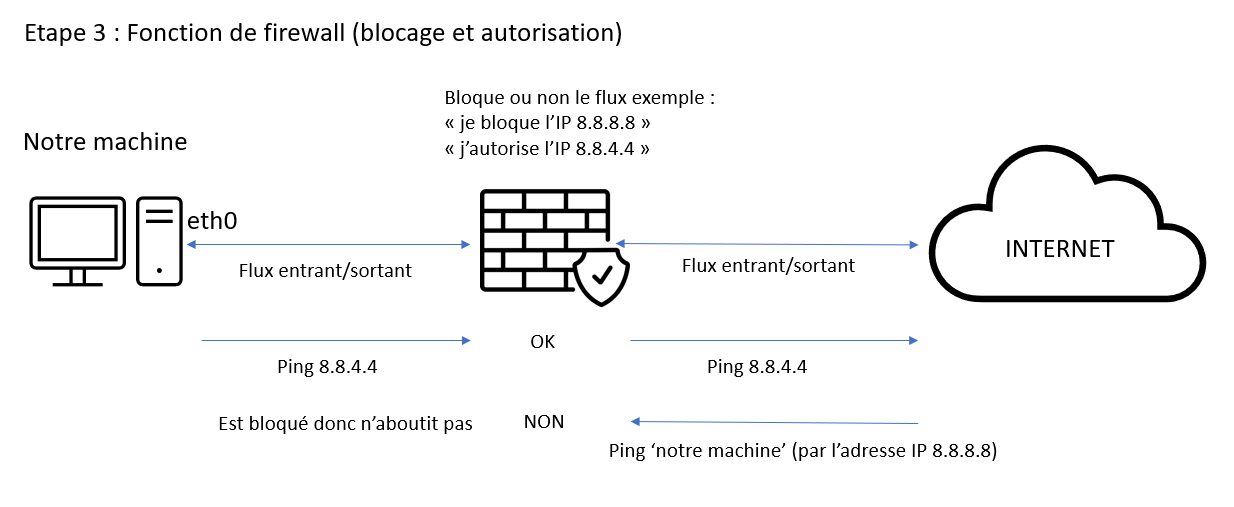
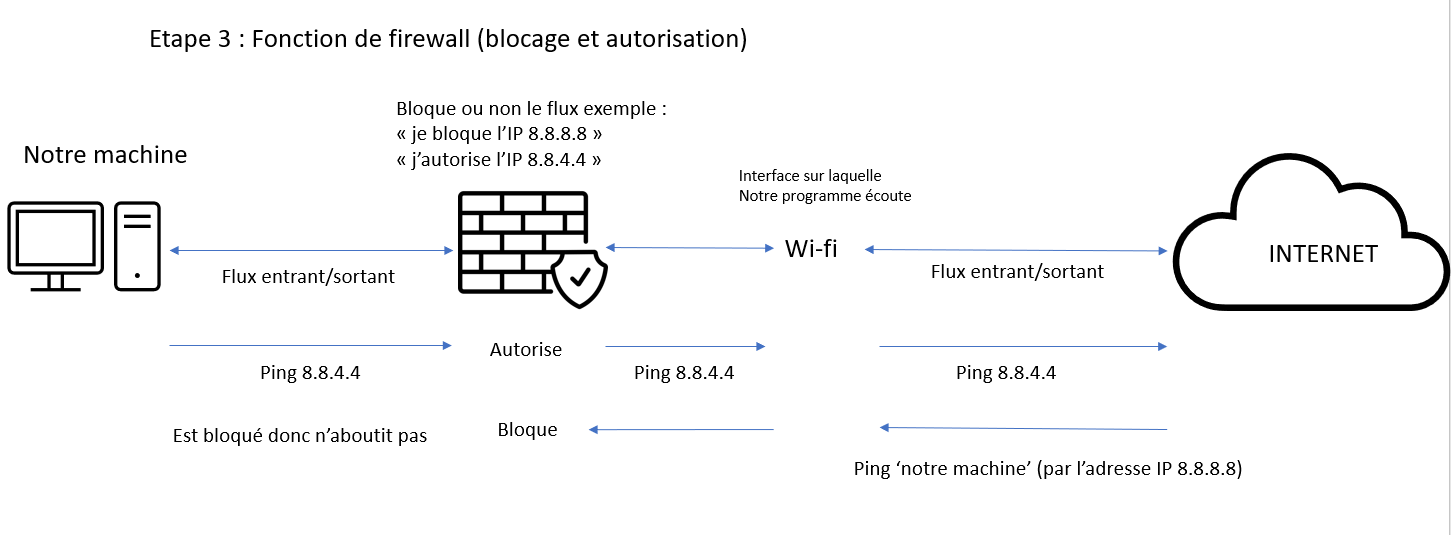
readme et modif explications

diff --git a/README.md b/README.md
@@ -1,1 +1,25 @@
-# pysec
+Le programme a été fait sur un environnement windows
+Il faut être en ADMINSTRATEUR pour pouvoir faire marcher le programme et que toutes les fonctionnalités marchent
+Plusieurs librairies sont nécessaire au bon fonctionnement du programme.
+
+"python3 main.py" pour lancer le programme, il prend un peu de temps à se lancer
+
+Les points décrit ci dessous sont les différentes fonctionnalités de notre programme :
+
+1) Une fois que l'interface graphique est lancé on clique sur "start sniffer" et on entre le nom de l'interface sur laquelle on veut voir les paquets (on la trouve via la commande IPconfig sur windows dans le cas d'un PC utilisateur une seule interface sera utilisé, Wi-Fi par exemple), on clique sur OK pour commencer l'écoute sur l'interface
+
+2) Pour voir les paquets on clique sur "show packets counts", chaque ligne correspond à des paquets entrant et sortant, des infos sont indiqués, l'ip source, l'ip destination, le type de paquet etc.
+
+3) Si il y a une attaque SYN FLOOD un pop up va apparaitre et ça va bloquer automatiquement l'ip
+
+4) "Blacklist" nous permet de voir toutes les IP qui sont bloquées
+
+5) "Block IP" et "Unblock IP" permettent de bloquer/débloquer une addresse IP
+
+6) "Show suspicious packets" et "Clear suspicious packets" permettent voir les packets suscpicieux (des paquets potentiellement dangereux), le clear permet d'effacer à l'écran les packets
+
+7) "analyse traffic" nous permet de voir dans un graphique les machines qui envoient/recoivent le plus de paquets avec notre machine
+
+En conclusion notre programme permet de : Bloquer/Débloquer une IP, bloquer automatiquement les machines qui font des attaques SYN Flood sur notre machine, analyser le traffic passant par l'interface sur laquelle on écoute, afficher le traffic
+
+
